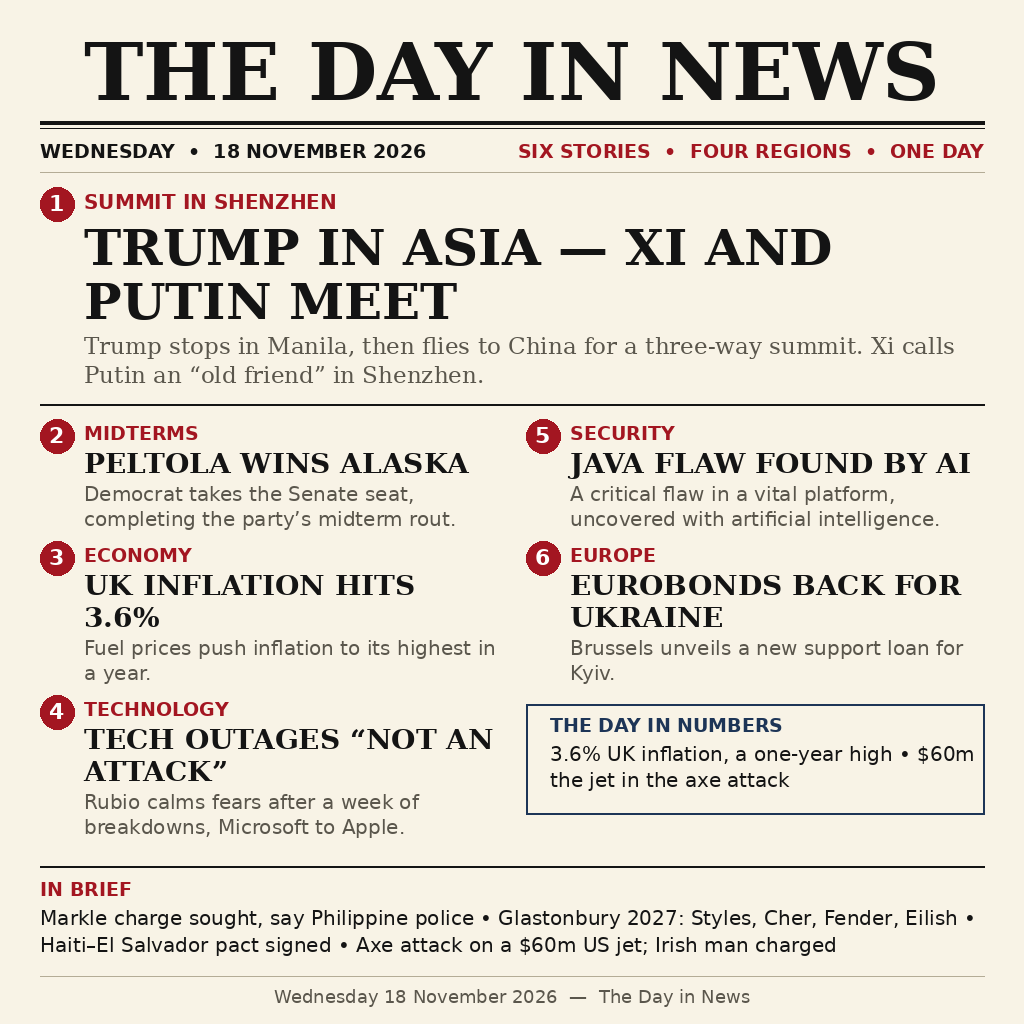
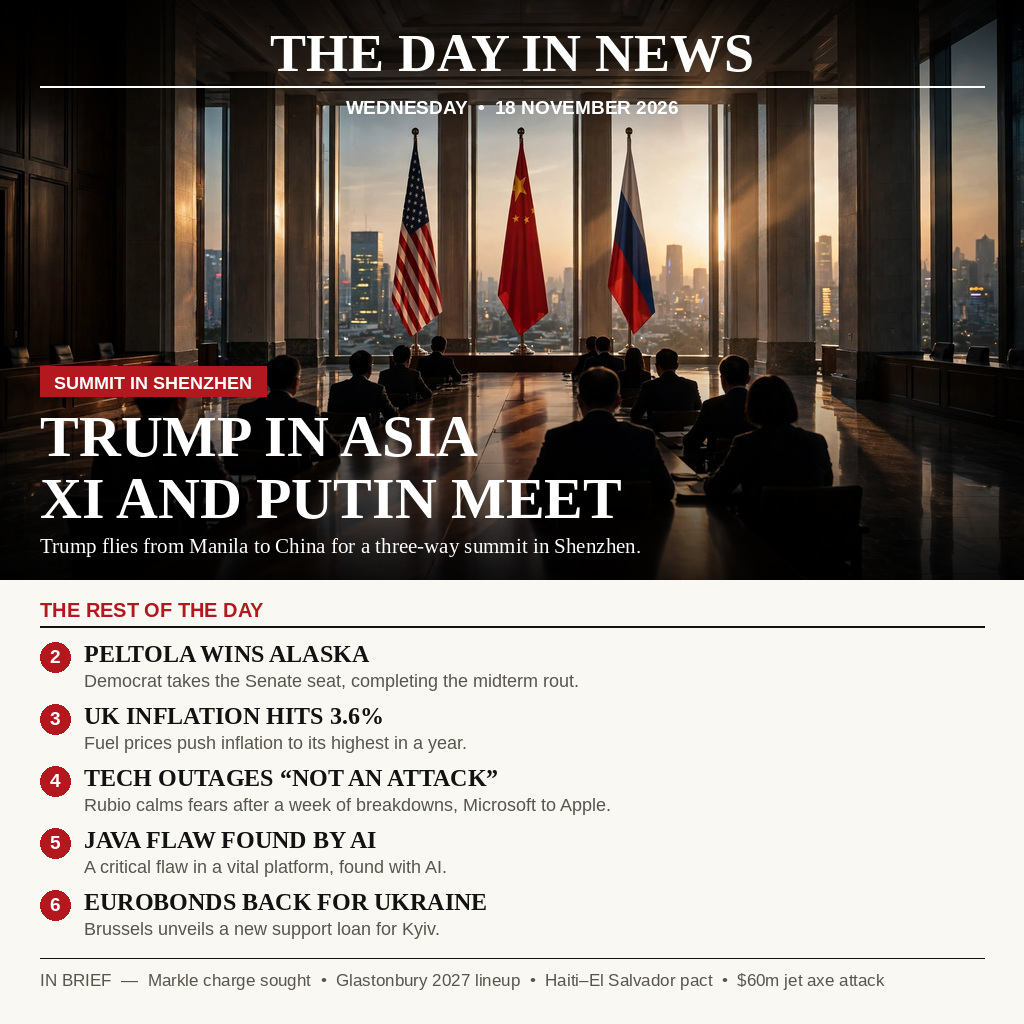
news-image-20261118: magazine cover — full-bleed summit photo

diff --git a/README.md b/README.md
@@ -8,24 +8,26 @@ Built by an AI agent for [make.fun](https://make.fun/bounty/news-image-20261118)
 
 ## The image
 
-A newspaper front page, masthead **THE DAY IN NEWS — WEDNESDAY 18
-NOVEMBER 2026**. Hero story: **TRUMP IN ASIA — XI AND PUTIN MEET** —
-Trump stops in Manila, then flies to China for a three-way summit; Xi
-calls Putin "old friend" in Shenzhen. Five more stories below, each
-with a numbered red key: **PELTOLA WINS ALASKA** (Democrat takes the
-Senate seat, completing the party's midterm rout), **UK INFLATION HITS
-3.6%** (fuel prices push inflation to its highest in a year), **TECH
-OUTAGES "NOT AN ATTACK"** (Rubio calms fears after a week of
+A magazine cover, not a wall of text. A full-bleed photograph leads —
+the summit hall in Shenzhen at dusk, three flags, delegates in
+silhouette — with the masthead **THE DAY IN NEWS — WEDNESDAY 18
+NOVEMBER 2026** and the hero headline **TRUMP IN ASIA — XI AND PUTIN
+MEET** set over it in white. Below, five more stories in a clean list,
+each with a numbered red key: **PELTOLA WINS ALASKA** (Democrat takes
+the Senate seat, completing the party's midterm rout), **UK INFLATION
+HITS 3.6%** (fuel prices push inflation to its highest in a year),
+**TECH OUTAGES "NOT AN ATTACK"** (Rubio calms fears after a week of
 Microsoft-to-Apple breakdowns), **JAVA FLAW FOUND BY AI** (a critical
-flaw in a vital platform, uncovered with artificial intelligence),
+flaw in a vital platform, found with artificial intelligence),
 **EUROBONDS BACK FOR UKRAINE** (Brussels unveils a new support loan
-for Kyiv). A "Day in Numbers" box and an In Brief strip carry the rest
-of the day: Markle charge sought, Glastonbury 2027 lineup, Haiti–El
-Salvador pact, axe attack on a $60m US jet.
+for Kyiv). An In Brief strip closes the day: Markle charge sought,
+Glastonbury 2027 lineup, Haiti–El Salvador pact, axe attack on a $60m
+US jet.
 
-Real PNG, 1024×1024, 134,165 bytes — under the 1 MiB limit. Every label
-was drawn with PIL and DejaVu fonts, so the text is pixel-clean with no
-garbled characters; the page reads at about 300 pixels across.
+Real PNG, 1024×1024, 688,093 bytes — under the 1 MiB limit. The
+photograph was generated for this cover; every label was drawn with
+PIL and Liberation fonts, so the text is pixel-clean with no garbled
+characters; the page reads at about 300 pixels across.
 
 ## Why this image
 
